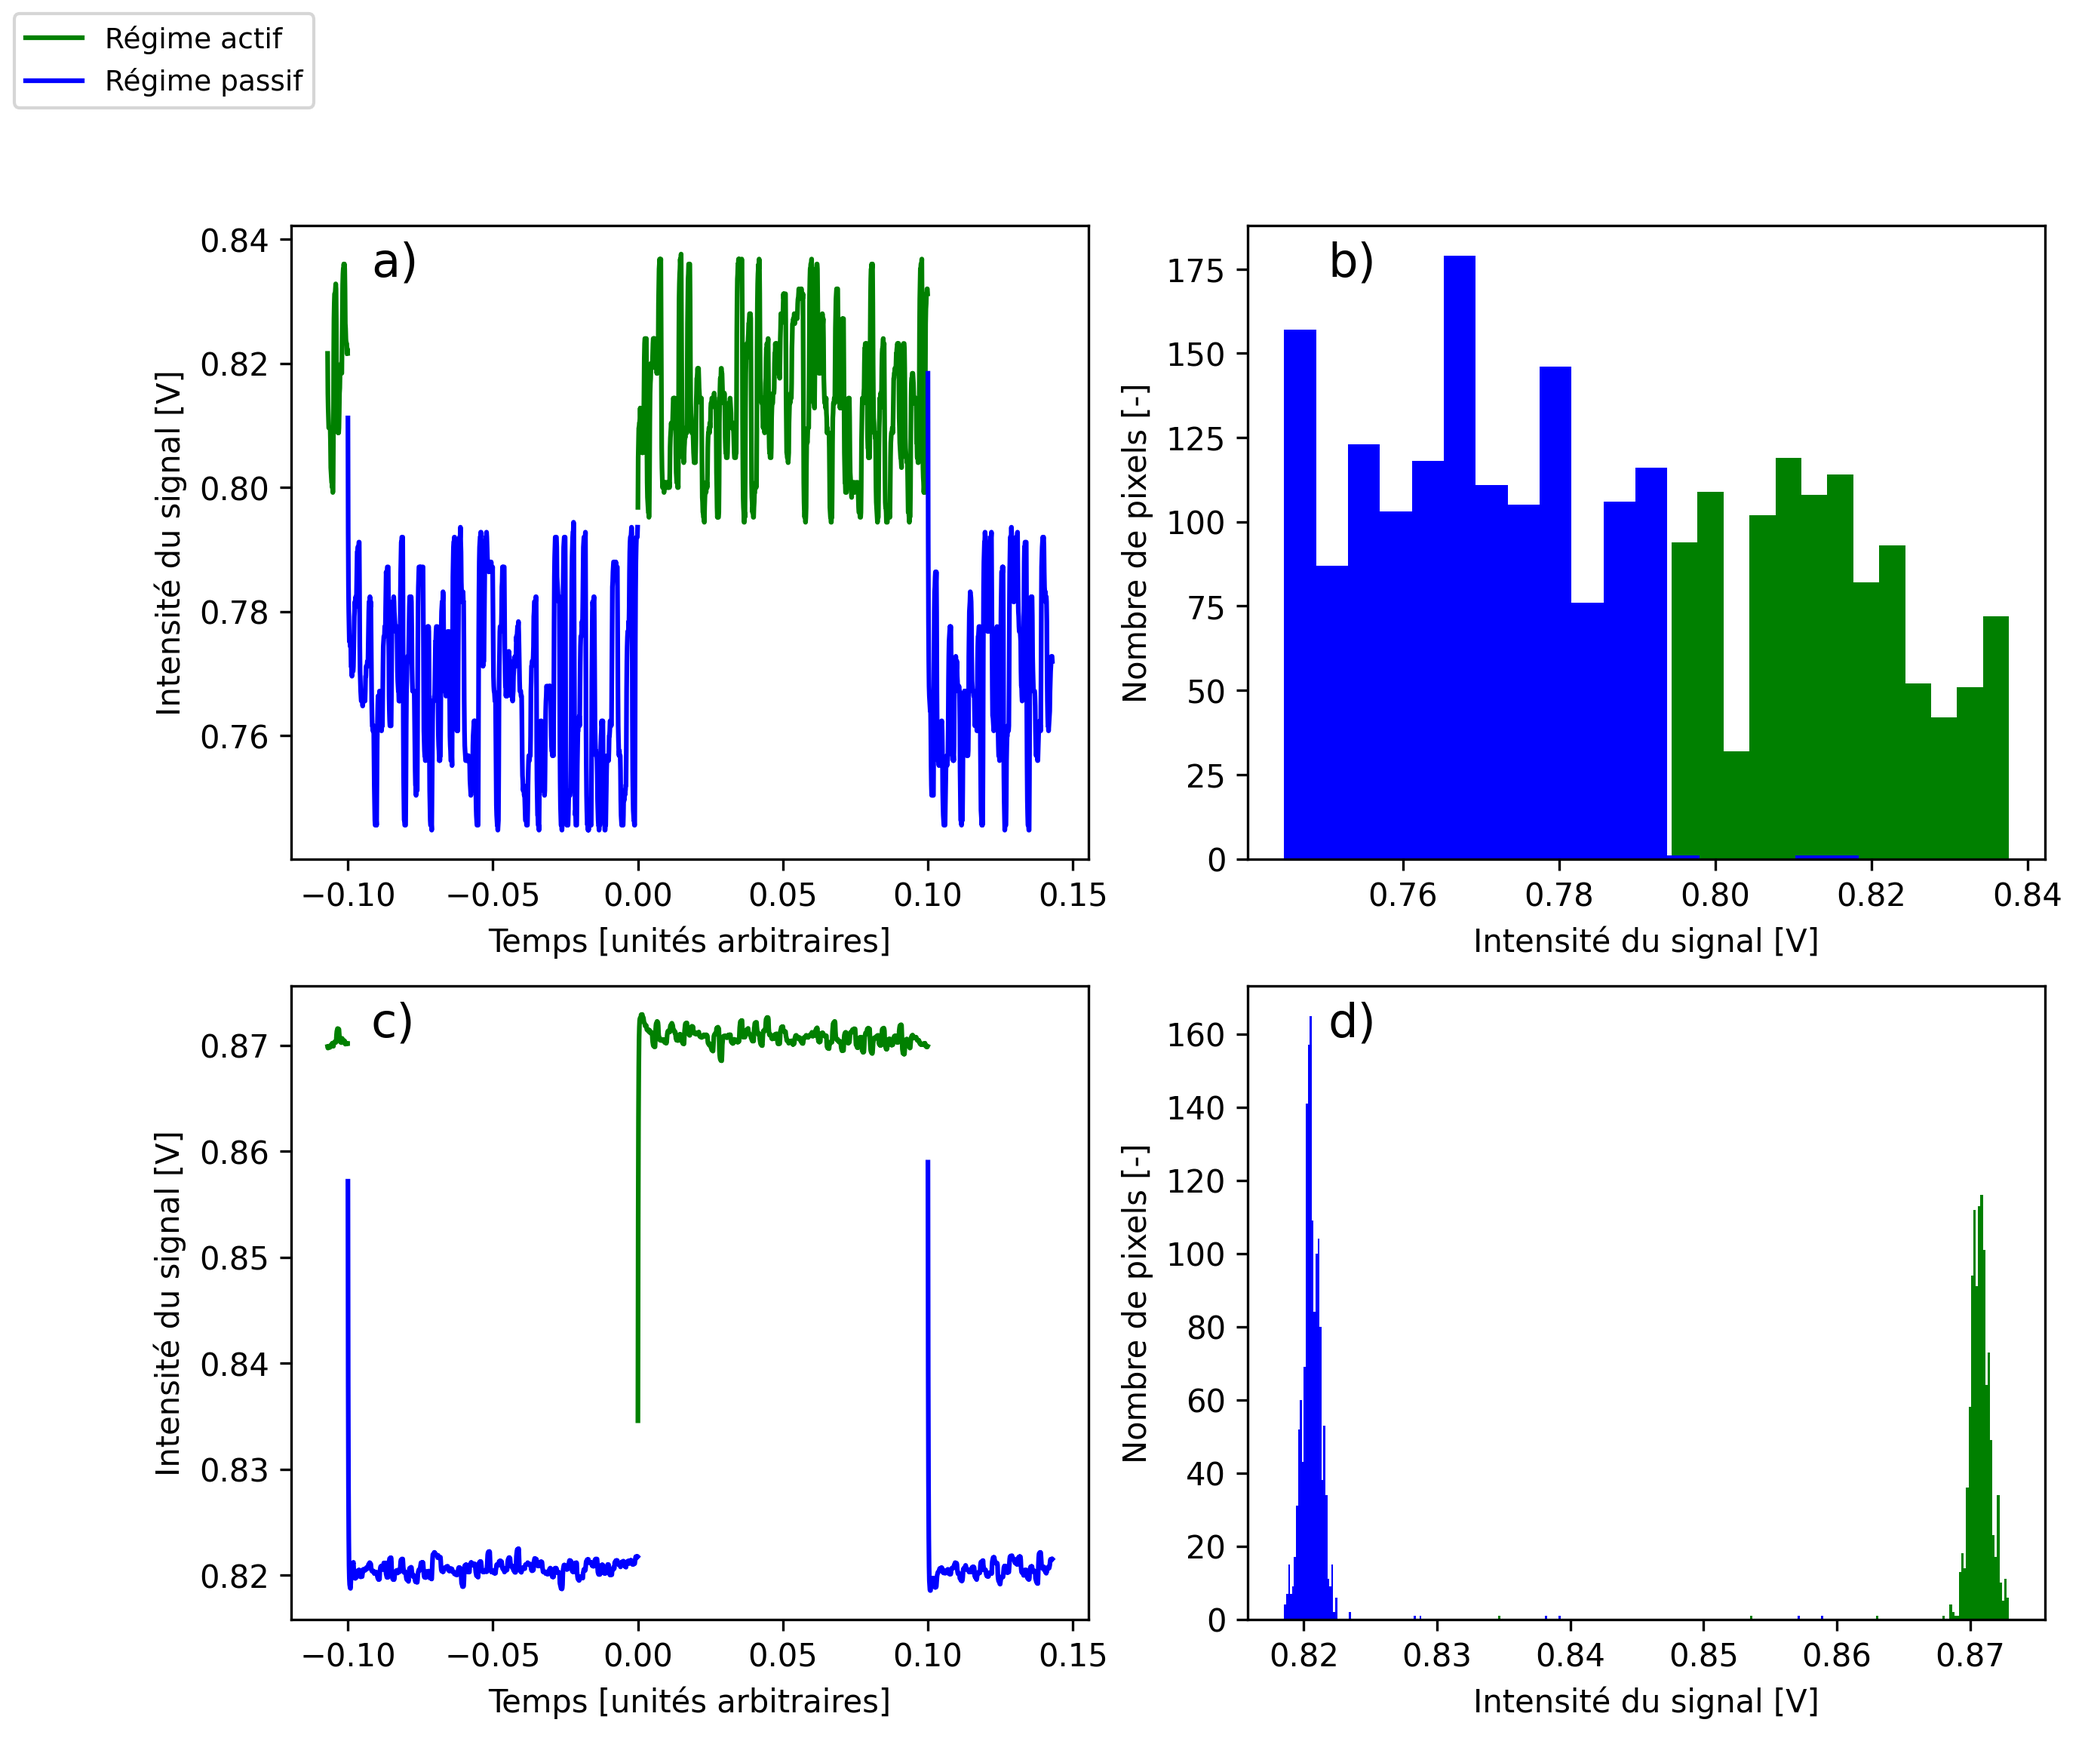
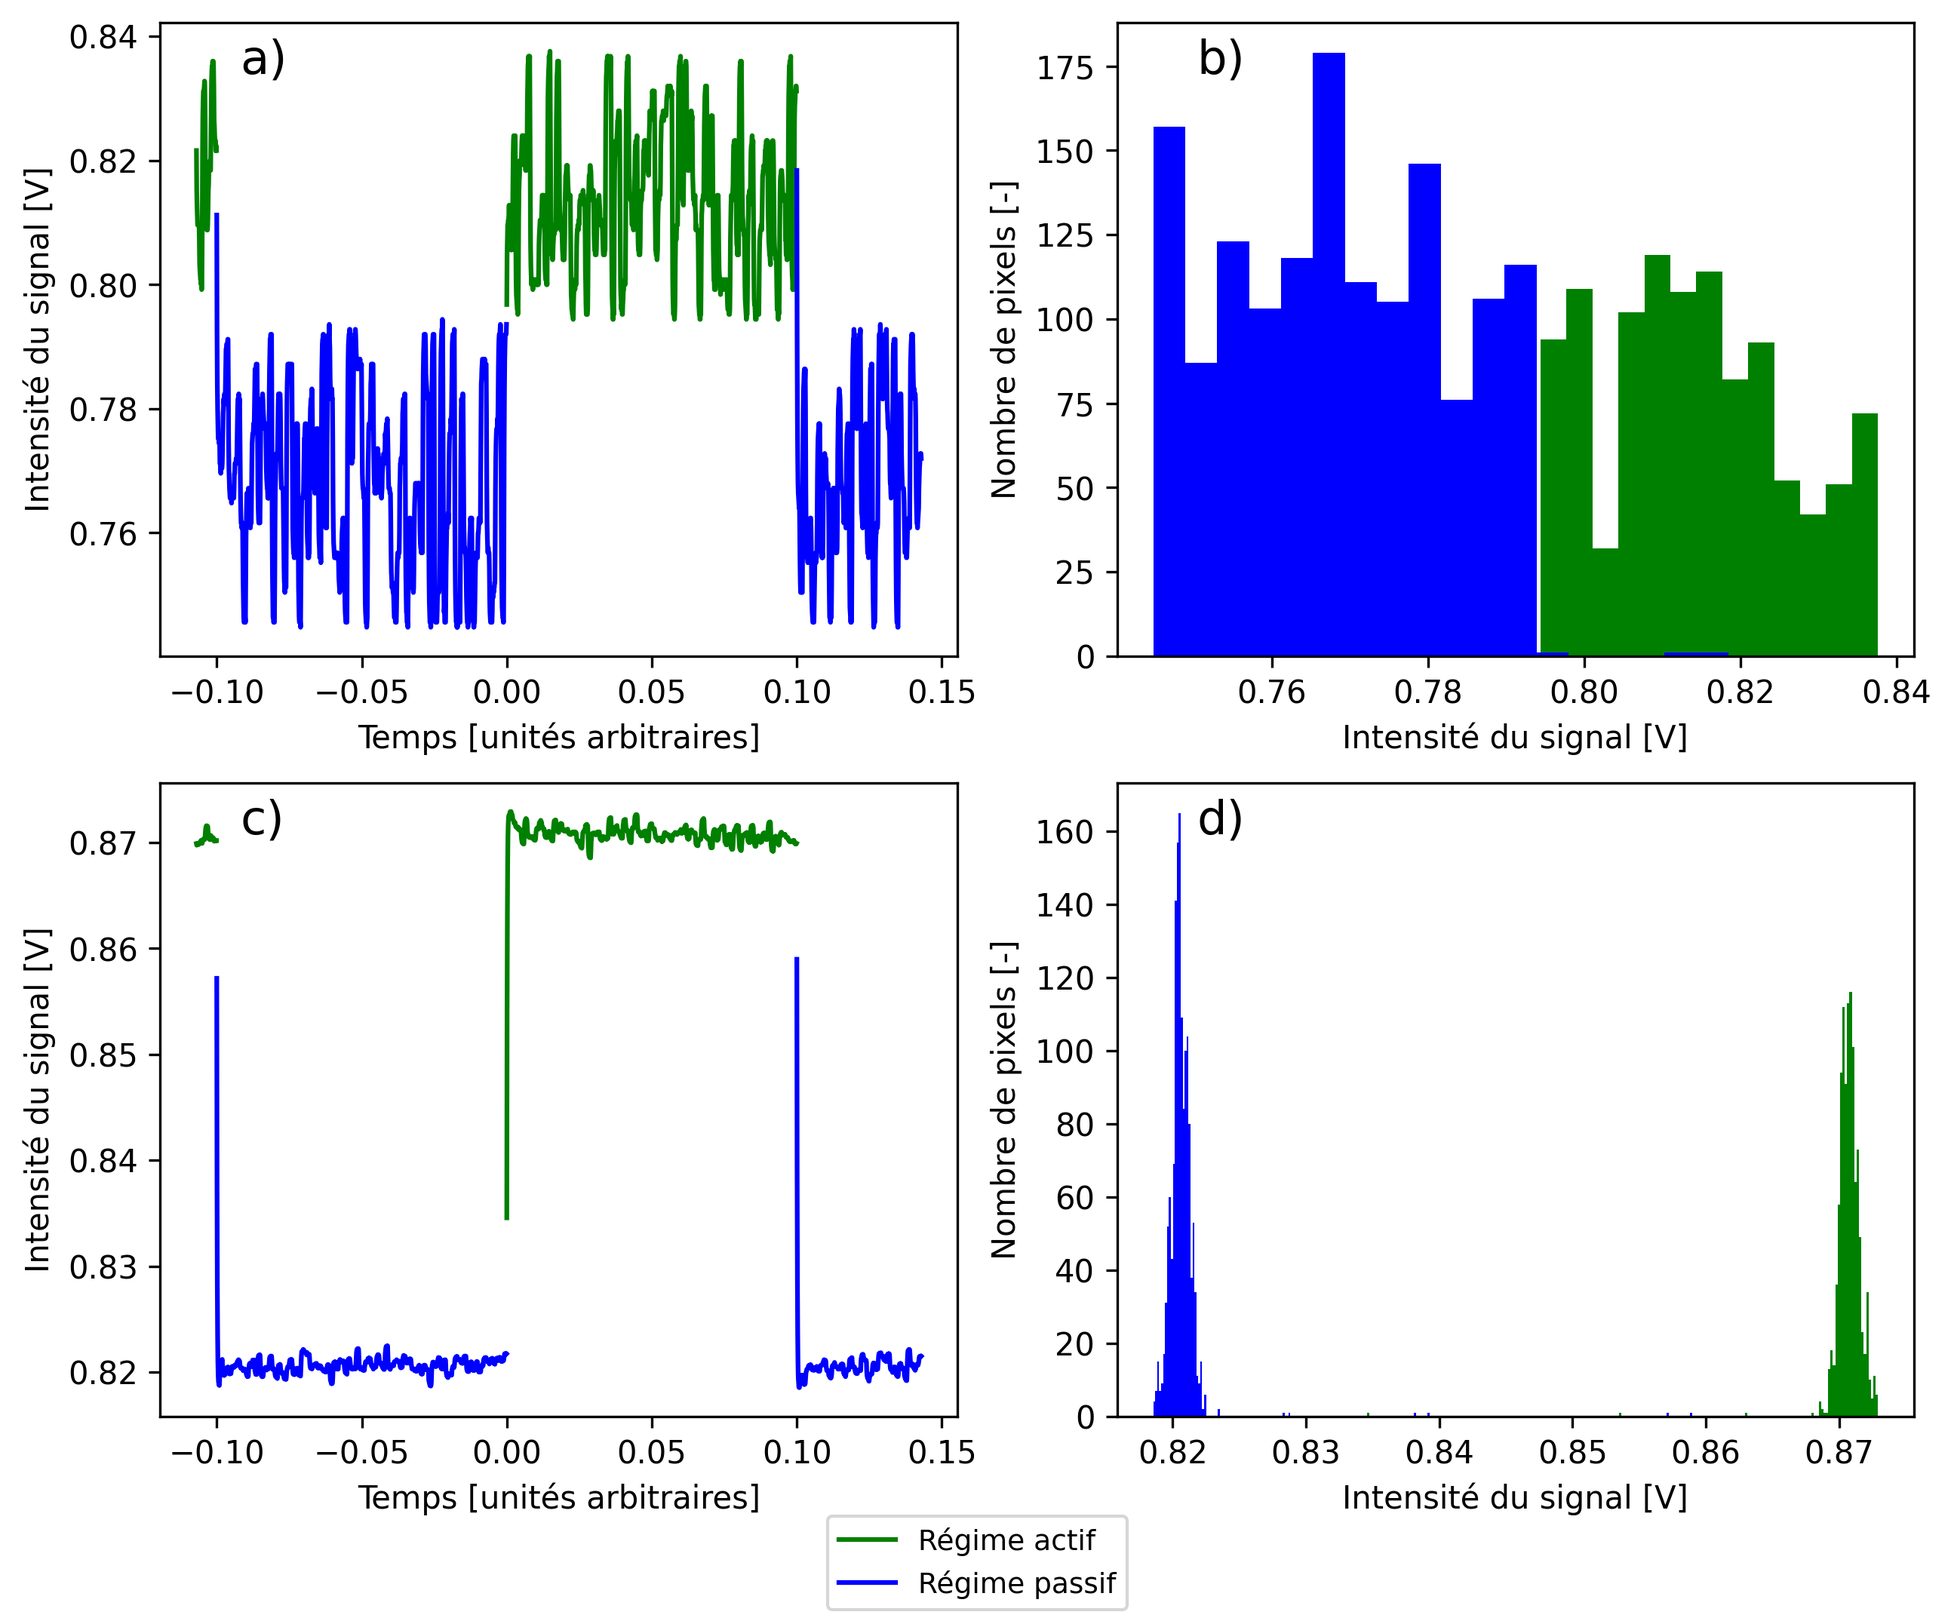
middle legend

diff --git a/bruit/main.py b/bruit/main.py
@@ -41,12 +41,12 @@ def get_intensity_increase(noise_data: np.ndarray, reference_data: np.ndarray) -
     return high_val / low_val
 
 
-print(
-    (f"{C.NEGATIVE}Intensity increase{C.END}: " +
-    str(get_intensity_increase(get_csv_data('bruit/data_deprecated/F0002CH1.CSV'), 
-                               get_csv_data('bruit/data_deprecated/F0002CH2.CSV')))
-    )
-)
+# print(
+#     (f"{C.NEGATIVE}Intensity increase{C.END}: " +
+#     str(get_intensity_increase(get_csv_data('bruit/data_deprecated/F0002CH1.CSV'), 
+#                                get_csv_data('bruit/data_deprecated/F0002CH2.CSV')))
+#     )
+# )
 
 
 def analyze_multiple_csv(data_dir: str) -> Union[uncertainties.core.Variable, np.ndarray]:
@@ -116,9 +116,9 @@ def make_graph():
         axs[row_number, 1].hist(low_data[:,1], bins=np.histogram_bin_edges(low_data[:,1], bins="fd"), color="b")
         # axs[row_number,0].text(0,0.85,"allo")
 
-    fig.legend(fontsize=9, loc="upper left")
+    fig.legend(fontsize=9, loc="lower center")
     plt.savefig("bruit/figures/poisson_law.png", dpi=300, bbox_inches="tight")
     # plt.show()
 
 
-# make_graph()
+make_graph()
